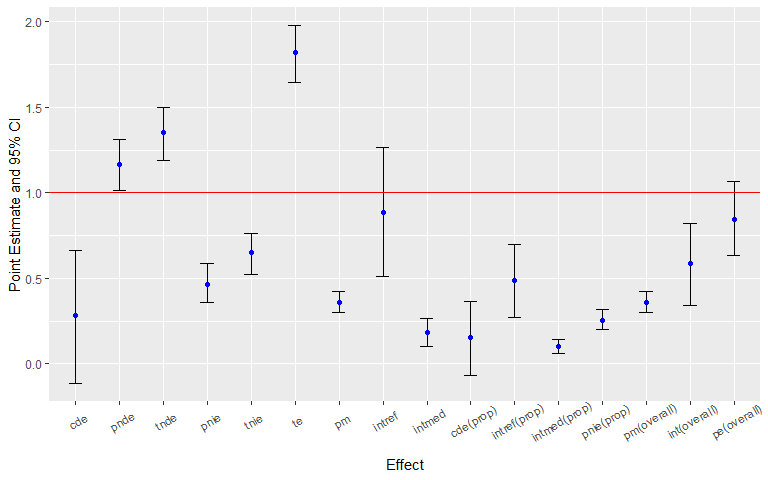
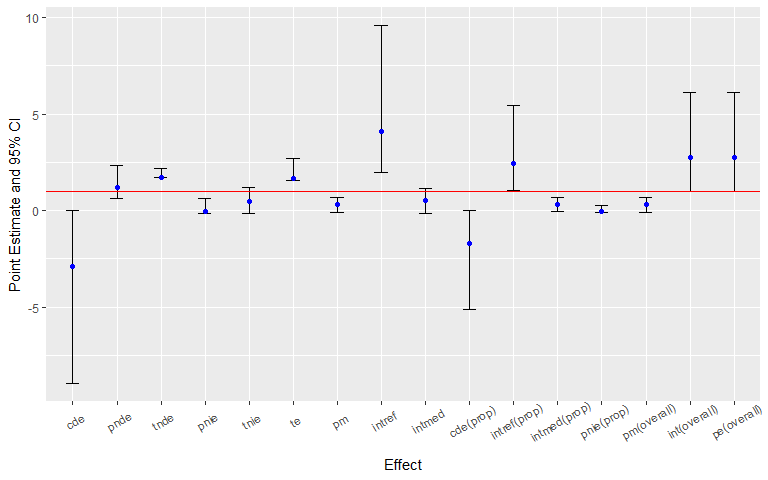
update readme

diff --git a/README.md b/README.md
@@ -1,7 +1,5 @@
-<img src="man/figures/logo.png" width="50%" style="display: block; margin: auto 0 auto auto;" />
-
-About the Package
-=================
+About the Package <img src="man/figures/logo.png" align="right" width="300" />
+==============================================================================
 
 The R package `CMAverse` provides a suite of functions conducting causal
 mediation analysis including `cmdag` for DAG visualization, `cmest` for
@@ -291,6 +289,7 @@ al. (2017)](https://www.ncbi.nlm.nih.gov/pmc/articles/PMC5285457/).
 </tbody>
 </table>
 <section class="footnotes" role="doc-endnotes">
+<hr />
 <ol>
 <li id="fn1" role="doc-endnote"><p>rb: the regression-based approach; wb: the weighting-based approach; iorw: the inverse odds ratio weighting approach; ne: the natural effect model; msm: the marginal structural model; gformula: the g-formula approach.<a href="#fnref1" class="footnote-back" role="doc-backlink">↩</a></p></li>
 <li id="fn2" role="doc-endnote"><p>Y denotes the outcome, A denotes the exposure, M denotes the mediator(s) and C denotes the pre-exposure confounder(s).<a href="#fnref2" class="footnote-back" role="doc-backlink">↩</a></p></li>
@@ -347,7 +346,7 @@ scientific setting. The simulated dataset contains a binary exposure, a
 binary mediator, a continuous mediator, a continuous outcome and two
 pre-exposure confounders.
 
-    n <- 1000
+    n <- 30
     C1 <- rnorm(n, mean = 1, sd = 1)
     C2 <- rbinom(n, 1, 0.6)
     C2[which(C2 == 0)] <- "C2_0"
@@ -370,7 +369,7 @@ The DAG can be plotted using the `cmdag` function.
           prec = c("C1", "C2"), postc = NULL,
           node = FALSE, text_col = "black")
 
-![](man/figures/plot_dag-1.png)
+![](README_files/figure-markdown_strict/plot_dag-1.png)
 
 Then, we estimate the causal effects using the `cmest` function. We use
 the regression-based approach for illustration. The reference values for
@@ -381,7 +380,7 @@ mediators are set to be 0.
                     mediator = c("M1", "M2"), prec = c("C1", "C2"), EMint = TRUE,
                     mreg = list("logistic", "linear"), yreg = "linear",
                     astar = 0, a = 1, mval = list(0, 0),
-                    estimation = "imputation", inference = "bootstrap", nboot = 200)
+                    estimation = "imputation", inference = "bootstrap", nboot = 5)
 
 Summarizing and plotting the results:
 
@@ -394,29 +393,29 @@ Summarizing and plotting the results:
     ##  bootstrap standard errors, percentile confidence intervals and p-values 
     ##  
     ##              Estimate Std.error  95% CIL 95% CIU  P.val    
-    ## cde           0.28357   0.21920 -0.11519   0.665   0.18    
-    ## pnde          1.16836   0.08042  1.01398   1.312 <2e-16 ***
-    ## tnde          1.35393   0.08342  1.19128   1.500 <2e-16 ***
-    ## pnie          0.46727   0.05781  0.35985   0.585 <2e-16 ***
-    ## tnie          0.65284   0.06731  0.52078   0.764 <2e-16 ***
-    ## te            1.82120   0.08249  1.64357   1.980 <2e-16 ***
-    ## pm            0.35847   0.03335  0.29900   0.421 <2e-16 ***
-    ## intref        0.88479   0.19492  0.51165   1.263 <2e-16 ***
-    ## intmed        0.18557   0.04231  0.09943   0.263 <2e-16 ***
-    ## cde(prop)     0.15571   0.12077 -0.06675   0.364   0.18    
-    ## intref(prop)  0.48583   0.10945  0.27379   0.699 <2e-16 ***
-    ## intmed(prop)  0.10189   0.02282  0.06004   0.145 <2e-16 ***
-    ## pnie(prop)    0.25657   0.02998  0.20094   0.318 <2e-16 ***
-    ## pm(overall)   0.35847   0.03335  0.29900   0.421 <2e-16 ***
-    ## int(overall)  0.58772   0.13049  0.34087   0.824 <2e-16 ***
-    ## pe(overall)   0.84429   0.12077  0.63578   1.067 <2e-16 ***
+    ## cde           1.21497   2.26052 -2.47557   2.466    0.8    
+    ## pnde          1.33559   0.78559  0.04586   1.895    0.4    
+    ## tnde          1.73505   0.37712  1.33380   2.255 <2e-16 ***
+    ## pnie          0.24911   0.41200 -0.18441   0.864    0.4    
+    ## tnie          0.64857   0.64905  0.53822   1.823 <2e-16 ***
+    ## te            1.98416   0.40241  1.78599   2.633 <2e-16 ***
+    ## pm            0.32687   0.33692  0.23134   0.990 <2e-16 ***
+    ## intref        0.12062   1.63110 -0.57063   2.648    0.8    
+    ## intmed        0.39946   0.45104  0.23378   1.294 <2e-16 ***
+    ## cde(prop)     0.61234   1.09480 -1.38712   0.976    0.8    
+    ## intref(prop)  0.06079   0.87416 -0.22547   1.461    0.8    
+    ## intmed(prop)  0.20132   0.26985  0.10010   0.725 <2e-16 ***
+    ## pnie(prop)    0.12555   0.18259 -0.10587   0.336    0.4    
+    ## pm(overall)   0.32687   0.33692  0.23134   0.990 <2e-16 ***
+    ## int(overall)  0.26212   1.12482 -0.08580   2.151    0.8    
+    ## pe(overall)   0.38766   1.09480  0.02370   2.387 <2e-16 ***
     ## ---
     ## Signif. codes:  0 '***' 0.001 '**' 0.01 '*' 0.05 '.' 0.1 ' ' 1
 
     plot(est) +
       theme(axis.text.x = element_text(angle = 30, vjust = 0.8))
 
-![](man/figures/plot_cmest-1.png)
+![](README_files/figure-markdown_strict/plot_cmest-1.png)
 
 Lastly, let’s conduct sensitivity analysis for the results. Sensitivity
 analysis for unmeasured confounding:
@@ -427,12 +426,12 @@ analysis for unmeasured confounding:
     ## 
     ## Evalues on the ratio scale: 
     ##         estRR   lowerRR  upperRR Evalue.estRR Evalue.lowerRR Evalue.upperRR
-    ## cde  1.119261 0.9439468 1.327134     1.484615       1.000000             NA
-    ## pnde 1.590760 1.4943769 1.693359     2.560170       2.353903             NA
-    ## tnde 1.712479 1.6049756 1.827182     2.817062       2.590354             NA
-    ## pnie 1.204009 1.1511086 1.259341     1.699619       1.568173             NA
-    ## tnie 1.296136 1.2300766 1.365742     1.915677       1.762065             NA
-    ## te   2.061840 1.9338001 2.198358     3.541484       3.277594             NA
+    ## cde  1.581659 0.2981774 8.389788     2.540818       1.000000             NA
+    ## pnde 1.655315 0.9269371 2.956045     2.696830       1.000000             NA
+    ## tnde 1.924621 1.4569848 2.542350     3.258617       2.272963             NA
+    ## pnie 1.098562 0.8104973 1.489009     1.427615       1.000000             NA
+    ## tnie 1.277288 0.7910952 2.062287     1.872416       1.000000             NA
+    ## te   2.114315 1.5709906 2.845546     3.649245       2.518102             NA
 
 Assume that the continuous pre-exposure confounder was measured with
 error. Sensitivity analysis using regression calibration with a set of
@@ -453,23 +452,23 @@ Summarizing and plotting the results:
     ## Measurement error 1: 
     ## 0.1
     ## Measurement error correction for measurement error 1: 
-    ##              Estimate Std.error  95% CIL 95% CIU  P.val    
-    ## cde           0.28076   0.22714 -0.18931   0.696   0.25    
-    ## pnde          1.16517   0.08066  0.99443   1.310 <2e-16 ***
-    ## tnde          1.34766   0.07968  1.20501   1.511 <2e-16 ***
-    ## pnie          0.48788   0.05902  0.36355   0.589 <2e-16 ***
-    ## tnie          0.67037   0.07374  0.52159   0.832 <2e-16 ***
-    ## te            1.83554   0.09207  1.66729   1.999 <2e-16 ***
-    ## pm            0.36522   0.03412  0.29596   0.434 <2e-16 ***
-    ## intref        0.88441   0.19087  0.50378   1.287 <2e-16 ***
-    ## intmed        0.18249   0.04326  0.10641   0.269 <2e-16 ***
-    ## cde(prop)     0.15296   0.12290 -0.10526   0.373   0.25    
-    ## intref(prop)  0.48183   0.10816  0.27696   0.707 <2e-16 ***
-    ## intmed(prop)  0.09942   0.02303  0.06128   0.147 <2e-16 ***
-    ## pnie(prop)    0.26580   0.02823  0.21040   0.316 <2e-16 ***
-    ## pm(overall)   0.36522   0.03412  0.29596   0.434 <2e-16 ***
-    ## int(overall)  0.58125   0.12941  0.33853   0.860 <2e-16 ***
-    ## pe(overall)   0.84704   0.12290  0.62655   1.105 <2e-16 ***
+    ##               Estimate Std.error   95% CIL 95% CIU  P.val    
+    ## cde            1.19554   2.00762  -3.48784   0.950    0.8    
+    ## pnde           1.17471   0.65886  -0.07400   1.582    0.4    
+    ## tnde           1.57518   1.11042  -0.71699   1.971    0.4    
+    ## pnie           0.25785   0.33003   0.02725   0.687 <2e-16 ***
+    ## tnie           0.65833   0.39499  -0.05483   0.938    0.4    
+    ## te             1.83304   0.97184  -0.11083   2.178    0.4    
+    ## pm             0.35914   0.11164   0.19328   0.468 <2e-16 ***
+    ## intref        -0.02083   1.48686  -0.15462   3.441    0.4    
+    ## intmed         0.40047   0.48112  -0.65646   0.394    0.4    
+    ## cde(prop)      0.65222   6.69072  -0.24788  13.792    0.4    
+    ## intref(prop)  -0.01136   6.70680 -13.13816   1.048    0.8    
+    ## intmed(prop)   0.21847   1.25079   0.14523   2.722 <2e-16 ***
+    ## pnie(prop)     0.14067   1.24420  -2.38016   0.311    0.4    
+    ## pm(overall)    0.35914   0.11164   0.19328   0.468 <2e-16 ***
+    ## int(overall)   0.20711   5.45838 -10.41587   1.217    0.4    
+    ## pe(overall)    0.34778   6.69072 -12.79197   1.248    0.4    
     ## ---
     ## Signif. codes:  0 '***' 0.001 '**' 0.01 '*' 0.05 '.' 0.1 ' ' 1
     ## ----------------------------------------------------------------
@@ -477,23 +476,23 @@ Summarizing and plotting the results:
     ## Measurement error 2: 
     ## 0.2
     ## Measurement error correction for measurement error 2: 
-    ##              Estimate Std.error  95% CIL 95% CIU  P.val    
-    ## cde           0.27176   0.21987 -0.21631   0.724    0.2    
-    ## pnde          1.15440   0.07851  1.00748   1.293 <2e-16 ***
-    ## tnde          1.33930   0.07770  1.19211   1.488 <2e-16 ***
-    ## pnie          0.49363   0.05872  0.38620   0.604 <2e-16 ***
-    ## tnie          0.67854   0.07066  0.54154   0.818 <2e-16 ***
-    ## te            1.83293   0.07978  1.67007   1.986 <2e-16 ***
-    ## pm            0.37019   0.03414  0.31067   0.436 <2e-16 ***
-    ## intref        0.88264   0.19103  0.47779   1.310 <2e-16 ***
-    ## intmed        0.18491   0.04326  0.10518   0.271 <2e-16 ***
-    ## cde(prop)     0.14827   0.11849 -0.12598   0.384    0.2    
-    ## intref(prop)  0.48154   0.10559  0.24994   0.708 <2e-16 ***
-    ## intmed(prop)  0.10088   0.02301  0.05455   0.147 <2e-16 ***
-    ## pnie(prop)    0.26931   0.02907  0.21047   0.320 <2e-16 ***
-    ## pm(overall)   0.37019   0.03414  0.31067   0.436 <2e-16 ***
-    ## int(overall)  0.58242   0.12669  0.30385   0.860 <2e-16 ***
-    ## pe(overall)   0.85173   0.11849  0.61563   1.126 <2e-16 ***
+    ##               Estimate Std.error   95% CIL 95% CIU  P.val    
+    ## cde           1.124562  1.770799 -1.412103   2.219    0.8    
+    ## pnde          1.189999  0.491102  0.608884   1.772 <2e-16 ***
+    ## tnde          1.656714  0.348845  1.411586   2.226 <2e-16 ***
+    ## pnie          0.304301  0.169844 -0.010145   0.413    0.4    
+    ## tnie          0.771016  0.179175  0.607145   1.000 <2e-16 ***
+    ## te            1.961015  0.416827  1.518569   2.435 <2e-16 ***
+    ## pm            0.393172  0.143507  0.262331   0.608 <2e-16 ***
+    ## intref        0.065437  1.374961 -0.622166   2.136    0.8    
+    ## intmed        0.466715  0.263536  0.349860   0.939 <2e-16 ***
+    ## cde(prop)     0.573459  0.927109 -0.923981   0.992    0.8    
+    ## intref(prop)  0.033369  0.794391 -0.357000   1.316    0.8    
+    ## intmed(prop)  0.237997  0.199035  0.187004   0.614 <2e-16 ***
+    ## pnie(prop)    0.155175  0.082509 -0.010518   0.178    0.4    
+    ## pm(overall)   0.393172  0.143507  0.262331   0.608 <2e-16 ***
+    ## int(overall)  0.271365  0.983915 -0.159368   1.930    0.8    
+    ## pe(overall)   0.426541  0.927109  0.007874   1.924 <2e-16 ***
     ## ---
     ## Signif. codes:  0 '***' 0.001 '**' 0.01 '*' 0.05 '.' 0.1 ' ' 1
     ## ----------------------------------------------------------------
@@ -502,22 +501,22 @@ Summarizing and plotting the results:
     ## 0.3
     ## Measurement error correction for measurement error 3: 
     ##              Estimate Std.error  95% CIL 95% CIU  P.val    
-    ## cde           0.25459   0.21738 -0.13580   0.679   0.24    
-    ## pnde          1.12400   0.07833  1.00232   1.284 <2e-16 ***
-    ## tnde          1.31433   0.08113  1.17297   1.476 <2e-16 ***
-    ## pnie          0.50239   0.05993  0.39136   0.637 <2e-16 ***
-    ## tnie          0.69272   0.07429  0.55149   0.840 <2e-16 ***
-    ## te            1.81672   0.09498  1.64487   1.994 <2e-16 ***
-    ## pm            0.38130   0.03289  0.31467   0.446 <2e-16 ***
-    ## intref        0.86940   0.18712  0.50879   1.243 <2e-16 ***
-    ## intmed        0.19034   0.04109  0.11690   0.266 <2e-16 ***
-    ## cde(prop)     0.14014   0.11766 -0.07675   0.366   0.24    
-    ## intref(prop)  0.47856   0.10482  0.28534   0.699 <2e-16 ***
-    ## intmed(prop)  0.10477   0.02141  0.06315   0.144 <2e-16 ***
-    ## pnie(prop)    0.27653   0.02774  0.22227   0.335 <2e-16 ***
-    ## pm(overall)   0.38130   0.03289  0.31467   0.446 <2e-16 ***
-    ## int(overall)  0.58333   0.12420  0.33991   0.824 <2e-16 ***
-    ## pe(overall)   0.85986   0.11766  0.63387   1.077 <2e-16 ***
+    ## cde           0.93539   1.33169  0.55883   3.806 <2e-16 ***
+    ## pnde          0.85948   0.65775  0.79198   2.423 <2e-16 ***
+    ## tnde          1.51864   0.36142  1.50884   2.316 <2e-16 ***
+    ## pnie          0.48632   0.32667 -0.04064   0.733    0.4    
+    ## tnie          1.14548   0.54798  0.14157   1.443 <2e-16 ***
+    ## te            2.00496   0.38865  1.97110   2.868 <2e-16 ***
+    ## pm            0.57132   0.24570  0.06535   0.639 <2e-16 ***
+    ## intref       -0.07591   0.88643 -1.91126   0.276    0.4    
+    ## intmed        0.65915   0.38534 -0.12810   0.740    0.8    
+    ## cde(prop)     0.46654   0.65712  0.23537   1.873 <2e-16 ***
+    ## intref(prop) -0.03786   0.44631 -0.94378   0.129    0.4    
+    ## intmed(prop)  0.32876   0.16882 -0.04454   0.330    0.8    
+    ## pnie(prop)    0.24256   0.14066 -0.02121   0.323    0.4    
+    ## pm(overall)   0.57132   0.24570  0.06535   0.639 <2e-16 ***
+    ## int(overall)  0.29090   0.53916 -0.85406   0.444    0.4    
+    ## pe(overall)   0.53346   0.65712 -0.87339   0.765    0.4    
     ## ---
     ## Signif. codes:  0 '***' 0.001 '**' 0.01 '*' 0.05 '.' 0.1 ' ' 1
     ## ----------------------------------------------------------------
@@ -525,13 +524,13 @@ Summarizing and plotting the results:
     plot(me1) +
       theme(axis.text.x = element_text(angle = 30, vjust = 0.8))
 
-![](man/figures/plot_cmsens_me_con-1.png)
+![](README_files/figure-markdown_strict/plot_cmsens_me_con-1.png)
 
 Then, assume that the exposure was measured with error. Sensitivity
 analysis using MCSIMEX with two assumed misclassification matrices:
 
     me2 <- cmsens(object = est, sens = "me", MEmethod = "simex", MEvariable = "A", 
-                  MEvartype = "cat", B = 200,
+                  MEvartype = "cat", B = 5,
                   MEerror = list(matrix(c(0.95, 0.05, 0.05, 0.95), nrow = 2), 
                                  matrix(c(0.9, 0.1, 0.1, 0.9), nrow = 2)))
 
@@ -550,23 +549,23 @@ Summarizing and plotting the results:
     ## [2,] 0.05 0.95
     ## 
     ## Measurement error correction for measurement error 1: 
-    ##              Estimate Std.error  95% CIL 95% CIU  P.val    
-    ## cde           0.41357   0.25697 -0.10549   0.897   0.15    
-    ## pnde          1.35894   0.09347  1.17919   1.548 <2e-16 ***
-    ## tnde          1.58358   0.09472  1.43953   1.783 <2e-16 ***
-    ## pnie          0.47462   0.05605  0.35693   0.580 <2e-16 ***
-    ## tnie          0.69926   0.06991  0.57769   0.853 <2e-16 ***
-    ## te            2.05820   0.09003  1.89923   2.254 <2e-16 ***
-    ## pm            0.33975   0.03219  0.29148   0.414 <2e-16 ***
-    ## intref        0.94537   0.21783  0.50341   1.420 <2e-16 ***
-    ## intmed        0.22464   0.05754  0.12323   0.350 <2e-16 ***
-    ## cde(prop)     0.20094   0.12298 -0.05100   0.422   0.15    
-    ## intref(prop)  0.45932   0.10634  0.24732   0.687 <2e-16 ***
-    ## intmed(prop)  0.10914   0.02735  0.05741   0.167 <2e-16 ***
-    ## pnie(prop)    0.23060   0.02690  0.17659   0.285 <2e-16 ***
-    ## pm(overall)   0.33975   0.03219  0.29148   0.414 <2e-16 ***
-    ## int(overall)  0.56846   0.13201  0.30910   0.850 <2e-16 ***
-    ## pe(overall)   0.79906   0.12298  0.57775   1.051 <2e-16 ***
+    ##               Estimate Std.error   95% CIL 95% CIU  P.val    
+    ## cde           2.936984  1.629964  0.136378   3.655 <2e-16 ***
+    ## pnde          1.435524  0.698628  0.621053   2.238 <2e-16 ***
+    ## tnde          1.776879  0.766657  1.058271   2.924 <2e-16 ***
+    ## pnie          0.406562  0.398353 -0.001866   0.967    0.4    
+    ## tnie          0.747917  0.340365  0.193597   0.979 <2e-16 ***
+    ## te            2.183441  0.789186  1.311018   3.203 <2e-16 ***
+    ## pm            0.342540  0.184586  0.099034   0.528 <2e-16 ***
+    ## intref       -1.501460  1.566942 -1.801200   2.007    0.8    
+    ## intmed        0.341354  0.365300 -0.174947   0.731    0.4    
+    ## cde(prop)     1.345117  0.688591  0.052206   1.549 <2e-16 ***
+    ## intref(prop) -0.687658  0.584253 -0.692864   0.626    0.8    
+    ## intmed(prop)  0.156338  0.165593 -0.062540   0.337    0.4    
+    ## pnie(prop)    0.186203  0.156157 -0.006196   0.369    0.4    
+    ## pm(overall)   0.342540  0.184586  0.099034   0.528 <2e-16 ***
+    ## int(overall) -0.531320  0.709605 -0.755404   0.861    0.8    
+    ## pe(overall)  -0.345117  0.688591 -0.549158   0.948    0.8    
     ## ---
     ## Signif. codes:  0 '***' 0.001 '**' 0.01 '*' 0.05 '.' 0.1 ' ' 1
     ## ----------------------------------------------------------------
@@ -577,23 +576,23 @@ Summarizing and plotting the results:
     ## [2,]  0.1  0.9
     ## 
     ## Measurement error correction for measurement error 2: 
-    ##               Estimate Std.error   95% CIL 95% CIU  P.val    
-    ## cde           0.462692  0.303844 -0.007039   1.136   0.06 .  
-    ## pnde          1.540007  0.113319  1.345088   1.786 <2e-16 ***
-    ## tnde          1.832024  0.114800  1.649124   2.073 <2e-16 ***
-    ## pnie          0.476871  0.061760  0.363883   0.591 <2e-16 ***
-    ## tnie          0.768888  0.080688  0.595542   0.894 <2e-16 ***
-    ## te            2.308895  0.107883  2.091872   2.523 <2e-16 ***
-    ## pm            0.333011  0.033807  0.258709   0.384 <2e-16 ***
-    ## intref        1.077315  0.247827  0.503796   1.465 <2e-16 ***
-    ## intmed        0.292017  0.074313  0.134529   0.412 <2e-16 ***
-    ## cde(prop)     0.200395  0.129699 -0.003229   0.489   0.06 .  
-    ## intref(prop)  0.466593  0.109513  0.210635   0.643 <2e-16 ***
-    ## intmed(prop)  0.126475  0.031685  0.060189   0.181 <2e-16 ***
-    ## pnie(prop)    0.206536  0.026789  0.156208   0.255 <2e-16 ***
-    ## pm(overall)   0.333011  0.033807  0.258709   0.384 <2e-16 ***
-    ## int(overall)  0.593068  0.139432  0.265725   0.814 <2e-16 ***
-    ## pe(overall)   0.799605  0.129699  0.510699   1.003 <2e-16 ***
+    ##              Estimate Std.error  95% CIL 95% CIU  P.val    
+    ## cde           0.90187   4.19656 -3.22046   6.733    0.8    
+    ## pnde          1.22989   1.26708  1.19556   3.947 <2e-16 ***
+    ## tnde          1.67922   0.94427  2.41142   4.529 <2e-16 ***
+    ## pnie          0.32255   0.39626 -0.52574   0.423    0.8    
+    ## tnie          0.77187   0.64744  0.05008   1.459 <2e-16 ***
+    ## te            2.00176   1.16914  2.01245   4.704 <2e-16 ***
+    ## pm            0.38560   0.21407  0.01714   0.533 <2e-16 ***
+    ## intref        0.32802   3.17101 -2.78562   4.517    0.8    
+    ## intmed        0.44933   0.75220 -0.33121   1.323    0.4    
+    ## cde(prop)     0.45054   1.34147 -1.62592   1.656    0.8    
+    ## intref(prop)  0.16387   1.26940 -0.68995   2.263    0.8    
+    ## intmed(prop)  0.22447   0.29267 -0.07511   0.656    0.4    
+    ## pnie(prop)    0.16113   0.16447 -0.26716   0.108    0.8    
+    ## pm(overall)   0.38560   0.21407  0.01714   0.533 <2e-16 ***
+    ## int(overall)  0.38833   1.49121 -0.75693   2.893    0.4    
+    ## pe(overall)   0.54946   1.34147 -0.65555   2.626    0.4    
     ## ---
     ## Signif. codes:  0 '***' 0.001 '**' 0.01 '*' 0.05 '.' 0.1 ' ' 1
     ## ----------------------------------------------------------------
@@ -601,7 +600,7 @@ Summarizing and plotting the results:
     plot(me2) +
       theme(axis.text.x = element_text(angle = 30, vjust = 0.8))
 
-![](man/figures/plot_cmsens_me_cat-1.png)
+![](README_files/figure-markdown_strict/plot_cmsens_me_cat-1.png)
 
 References
 ==========
@@ -652,8 +651,8 @@ Schomaker M, Heumann C. Bootstrap inference when using multiple
 imputation (2018). Statistics in Medicine. 37(14): 2252 - 2266.
 
 VanderWeele TJ, Ding P. Sensitivity analysis in observational research:
-introducing the E-Value (2017). Annals of Internal Medicine. 167(4): 
-268 - 274.
+introducing the E-Value (2017). Annals of Internal Medicine. 167(4): 268
+- 274.
 
 Smith LH, VanderWeele TJ. Mediational E-values: Approximate sensitivity
 analysis for unmeasured mediator-outcome confounding (2019).
@@ -674,3 +673,7 @@ Biometrics. 62(1): 85 - 96.
 Stefanski LA, Cook JR. Simulation-extrapolation: the measurement error
 jackknife (1995). Journal of the American Statistical Association.
 90(432): 1247 - 56.
+
+Valeri L, Lin X, VanderWeele TJ. Mediation analysis when a continuous
+mediator is measured with error and the outcome follows a generalized
+linear model (2014). Statistics in medicine, 33(28): 4875–4890.
